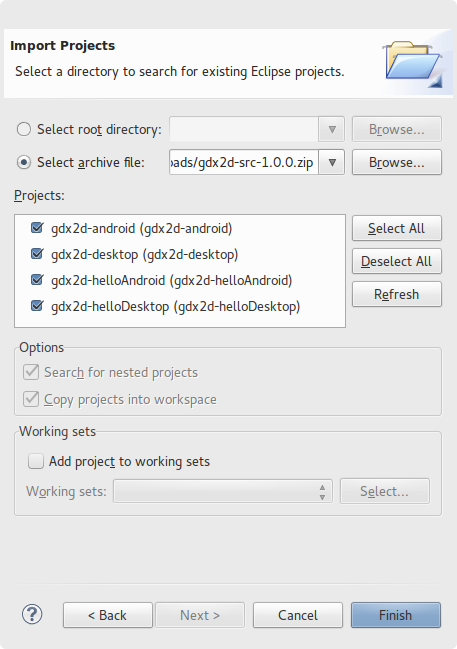
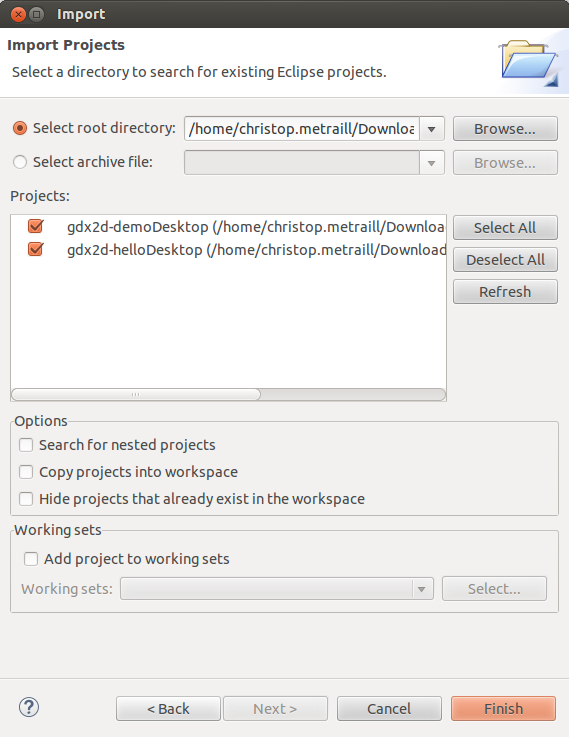
Updated the installing guide for the latest library version.

diff --git a/_doc/install.md b/_doc/install.md
@@ -5,32 +5,55 @@ weight: 1
 title: Installing the lib
 ---
 
-Two projects are available for desktop (PC, Mac, Linux) and Android. They can be imported in Eclipse to work quickly with a functional `gdx2d` project.
+A Zip file with desktop demos and a simple bootstrap project [can be downloaded from Github](https://github.com/hevs-isi/gdx2d/releases/download/v1.2.1/gdx2d-1.2.1-students.zip) to get started with the `gdx2d` library quickly.
 
-Simply import the latest `gdx2d-src-X.X.X.zip` archive file into your workspace :
-
-<center>
-    <img alt="Import projects" height="500" src="{{ site.baseurl }}/assets/doc/import.png">
-</center>
-
-Then run the main Java file `gdx2d-desktop/src/hevs/gdx2d/demos/DemoSelector.java` to display the `DemoSelector` or directly start the demo you are interested in.
-
-To run the `gdx2d-helloDesktop` project, launch the Java main file `HelloWorld.java` :
+You can also [download](https://github.com/hevs-isi/gdx2d/releases/download/v1.2.1/gdx2d-demoDesktop-1.2.1.jar) and run the `gdx2d-demoDesktop-1.2.1.jar` file to see the latest demos programs on your PC (no development environment is required):
 
 <center>
-    <img alt="Import projects" src="{{ site.baseurl }}/assets/doc/hello-world-students.png">
+  <a title="Gdx2d demos selector" href="https://github.com/hevs-isi/gdx2d/releases/download/v1.2.1/gdx2d-demoDesktop-1.2.1.jar"><img alt="Gdx2d demos selector" height="450" src="{{ site.baseurl }}/assets/doc/demo-selector.png"></a>
 </center>
 
-### Test environment
-The library has been successfully tested and built on the following environments
+## Run demo programs in Eclipse
 
-#### Linux
-* OS: Ubuntu 12.04.3 LTS x86_64
-* Java: Java 1.6.0_27 - OpenJDK 64-Bit
-* IDE: Eclipse 4.2.1, ADT version 22.0.5, Apache Ant(TM) version 1.8.3
-* Android: Android 4.3 (API 18)
+[Download](https://github.com/hevs-isi/gdx2d/releases/download/v1.2.1/gdx2d-1.2.1-students.zip) and extract the `gdx2d-1.2.1-students.zip` file, then import the two project in you Eclipse workspace (using the `File->Import...->Existing Projects into Workspace` menu in Eclipse):
 
-#### Windows
-* OS: Windows 8.1
-* Java: Java 1.8.0_40 from Oracle(TM) (64 bits)
-* IDE: IntelliJ and Eclipse Luna
+<center>
+    <img alt="Import existing projects in Eclipse" height="550" src="{{ site.baseurl }}/assets/doc/import.png">
+</center>
+
+The `gdx2d-demoDesktop` contains several program examples you can run on your PC. All the source code of the demo programs are provided. Select and run the main Java file `gdx2d-demoDesktop/src/ch/hevs/gdx2d/demos/DemoSelector.java` to display the demo selector window, or select the demo you are interested in and launch it from Eclipse.
+
+## Hello gdx2d project in Eclipse
+
+The `gdx2d-helloDesktop` project is a simple project you can use as a base to start coding with the `gdx2d` library. Select and launch the `HelloWorld.java` file to see your first program:
+
+<center>
+    <img alt="Gdx2d bootstrap project" height="350" src="{{ site.baseurl }}/assets/doc/hello-world-students.png">
+</center>
+
+## Maven-based project
+
+Advanced user can also use Maven or Gradle based projects to get started with the `gdx2d` library on desktop.
+
+* Add `gdx2d-desktop` as a dependency in your `pom.xml`:
+
+{% highlight xml %}
+<dependency>
+  <groupId>ch.hevs.gdx2d</groupId>
+  <artifactId>gdx2d-desktop</artifactId>
+  <version>1.2.1</version>
+</dependency>
+{% endhighlight %}
+
+* Or add `gdx2d-desktop` to the dependencies section in your `build.gradle`:
+
+{% highlight gradle %}
+compile 'ch.hevs.gdx2d:gdx2d-desktop:1.2.1'
+{% endhighlight %}
+
+More information are available [on this page](https://github.com/hevs-isi/gdx2d/tree/v1.2.1/gdx2d-library).
+
+## Development versions
+
+Development / snapshots versions of the `gdx2d` library can be downloaded from the [Sonatype snapshots repository](https://oss.sonatype.org/content/repositories/snapshots/ch/hevs/gdx2d/).
+It is also possible to build the library from sources using Maven. Please have a look [at this page](https://github.com/hevs-isi/gdx2d/tree/v1.2.1/gdx2d-library) for the details.
